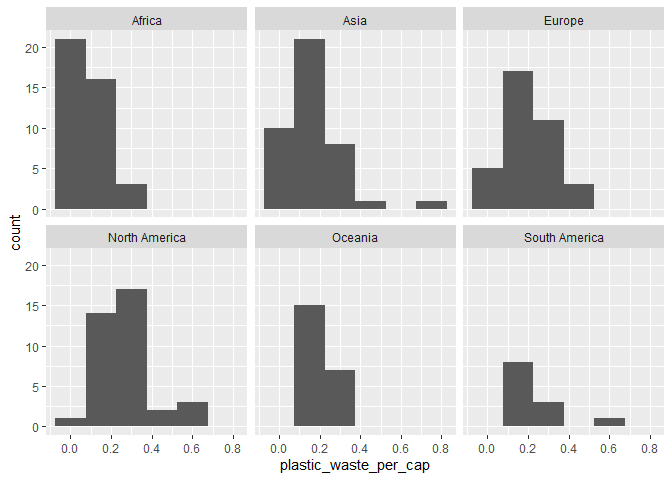
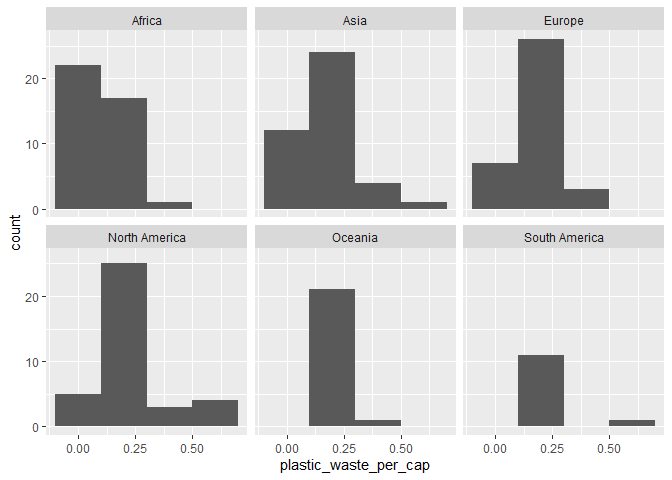
Q bonus et completion

diff --git a/lab-02.md b/lab-02.md
@@ -45,11 +45,11 @@ plastic_waste %>%
 ``` r
 ggplot(data=plastic_waste%>%
   filter(plastic_waste_per_cap < 3.5), aes(x=plastic_waste_per_cap )) +
-  geom_histogram(binwidth = 0.15, binheight=5)+
+  geom_histogram(binwidth = 0.2, binheight=5)+
   facet_wrap(~continent, ncol(3))
 ```
 
-    ## Warning in geom_histogram(binwidth = 0.15, binheight = 5): Ignoring unknown
+    ## Warning in geom_histogram(binwidth = 0.2, binheight = 5): Ignoring unknown
     ## parameters: `binheight`
 
 ![](lab-02_files/figure-gfm/plastic-waste-continent-1.png)<!-- -->
@@ -142,5 +142,23 @@ populations plus denses.
 Recréez la visualisation:
 
 ``` r
-# insert code here
+ggplot(data=plastic_waste %>%
+  mutate(coastal_pop_prop = coastal_pop / total_pop)%>%
+  filter(plastic_waste_per_cap < 3), aes(x=coastal_pop_prop, y=plastic_waste_per_cap, color=continent)) +
+  geom_point()+
+  geom_smooth(method = "loess",
+              se = TRUE,      
+              color = "black",
+              fill = "grey")+
+  labs(title = "Quantité de déchet plastique Vs la proportion de la population côtière" ,subtitle = "Selon le continent", x= "Proportion de la population côtière", y= "Nombre de déchet plastique par habitant" )
 ```
+
+    ## `geom_smooth()` using formula = 'y ~ x'
+
+    ## Warning: Removed 10 rows containing non-finite outside the scale range
+    ## (`stat_smooth()`).
+
+    ## Warning: Removed 10 rows containing missing values or values outside the scale range
+    ## (`geom_point()`).
+
+![](lab-02_files/figure-gfm/recreate-viz-1.png)<!-- -->
